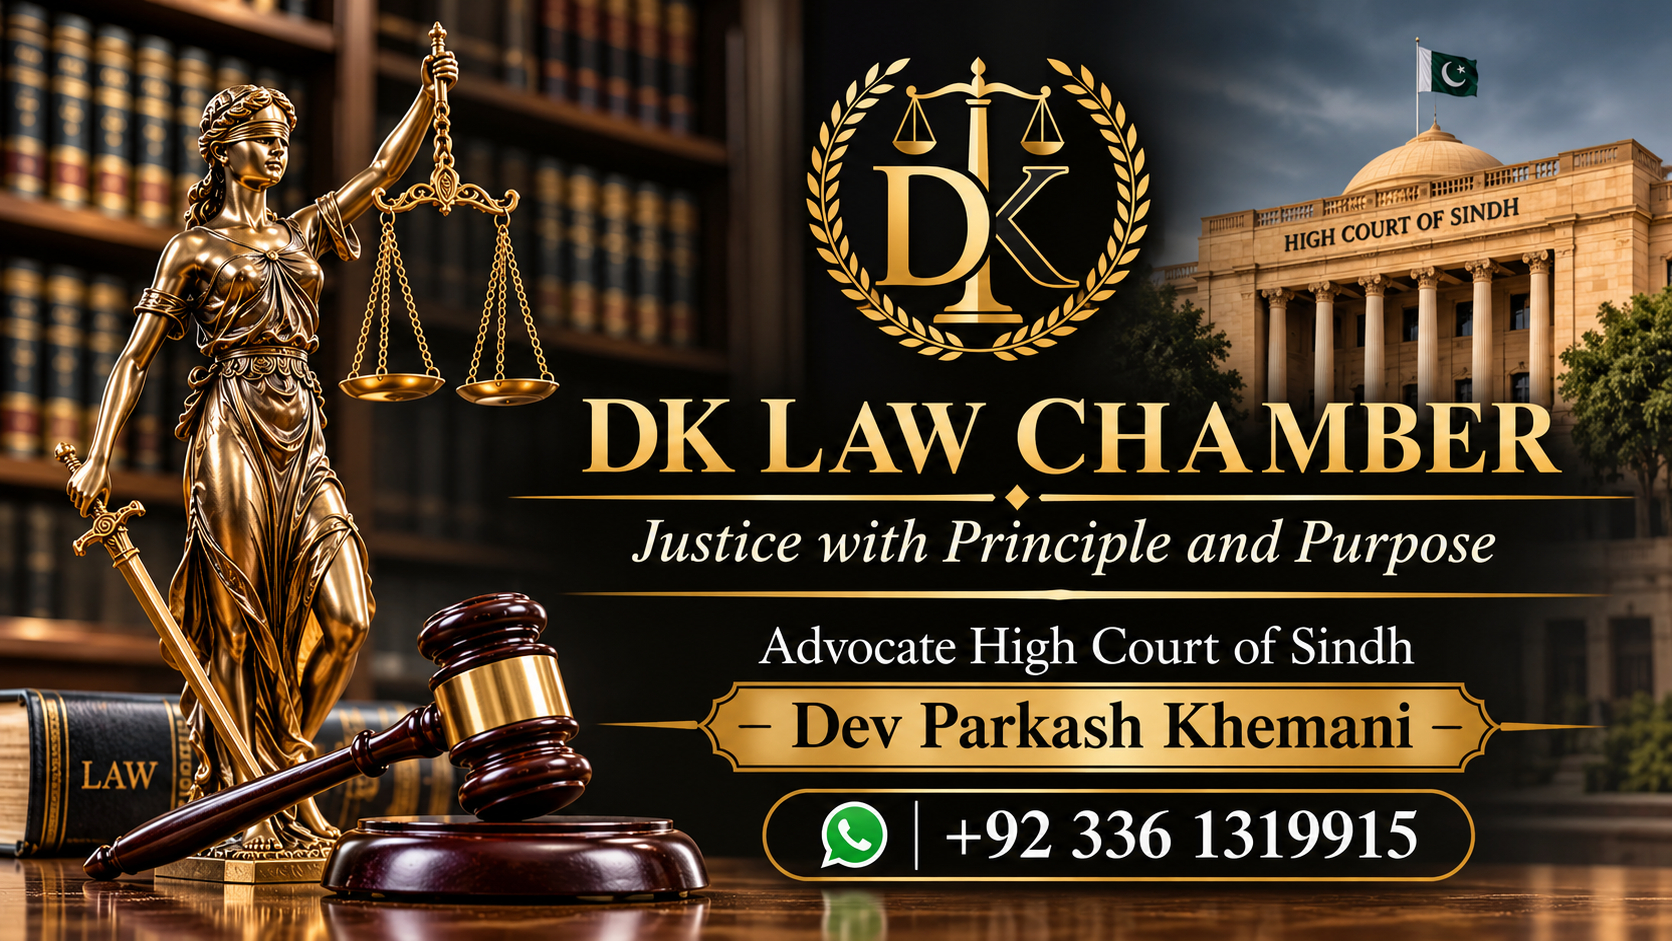
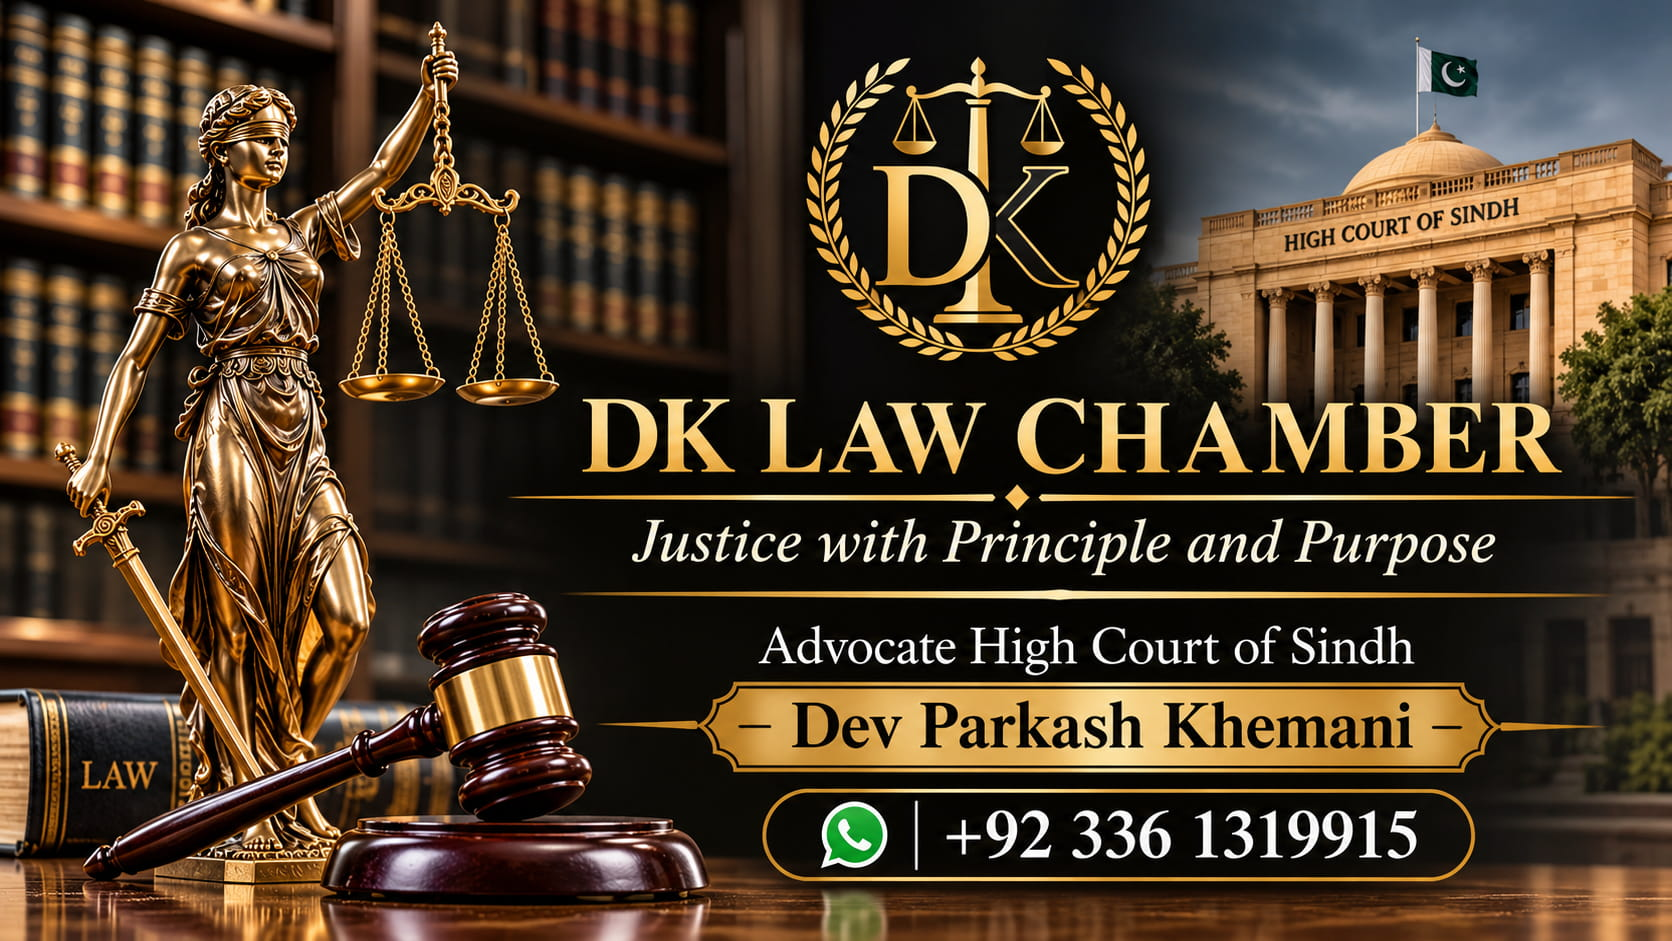
Add complete Open Graph tags and compressed og-image

diff --git a/index.html b/index.html
@@ -13,16 +13,40 @@
       property="og:title"
       content="DK LAW CHAMBER — Justice with Principle and Purpose"
     />
+    <link rel="canonical" href="https://gorav-a36y.github.io/dklawchamber/" />
     <meta
       property="og:description"
       content="Advocate Dev Parkash Khemani, Advocate High Court of Sindh. Free consultation — WhatsApp +92 336 1319915"
     />
-    <meta property="og:image" content="images/og-image.jpg" />
+    <meta
+      property="og:url"
+      content="https://gorav-a36y.github.io/dklawchamber/"
+    />
+    <meta
+      property="og:image"
+      content="https://gorav-a36y.github.io/dklawchamber/images/og-image.jpg"
+    />
+    <meta
+      property="og:image:secure_url"
+      content="https://gorav-a36y.github.io/dklawchamber/images/og-image.jpg"
+    />
+    <meta property="og:image:type" content="image/jpeg" />
     <meta property="og:image:alt" content="DK LAW CHAMBER" />
-    <meta property="og:image:width" content="1672" />
-    <meta property="og:image:height" content="941" />
+    <meta property="og:image:width" content="1200" />
+    <meta property="og:image:height" content="630" />
     <meta name="twitter:card" content="summary_large_image" />
-    <meta name="twitter:image" content="images/og-image.jpg" />
+    <meta
+      name="twitter:title"
+      content="DK LAW CHAMBER — Justice with Principle and Purpose"
+    />
+    <meta
+      name="twitter:description"
+      content="Advocate Dev Parkash Khemani, Advocate High Court of Sindh. Free consultation — WhatsApp +92 336 1319915"
+    />
+    <meta
+      name="twitter:image"
+      content="https://gorav-a36y.github.io/dklawchamber/images/og-image.jpg"
+    />
     <link rel="icon" href="images/favicon.ico" sizes="any" />
     <link
       rel="icon"
@@ -54,10 +78,21 @@
           "addressRegion": "Sindh",
           "addressCountry": "PK"
         },
-        "geo": { "@type": "GeoCoordinates", "latitude": 25.396, "longitude": 68.366 },
+        "geo": {
+          "@type": "GeoCoordinates",
+          "latitude": 25.396,
+          "longitude": 68.366
+        },
         "openingHoursSpecification": {
           "@type": "OpeningHoursSpecification",
-          "dayOfWeek": ["Monday","Tuesday","Wednesday","Thursday","Friday","Saturday"],
+          "dayOfWeek": [
+            "Monday",
+            "Tuesday",
+            "Wednesday",
+            "Thursday",
+            "Friday",
+            "Saturday"
+          ],
           "opens": "09:00",
           "closes": "19:00"
         },
@@ -67,7 +102,17 @@
           "jobTitle": "Advocate High Court"
         },
         "areaServed": "Hyderabad, Sindh, Pakistan",
-        "knowsAbout": ["Civil Law","Criminal Law","Narcotics Law","Corporate Law","Banking Law","Rent Law","Petitions","Income Tax","Sindh Revenue Board"]
+        "knowsAbout": [
+          "Civil Law",
+          "Criminal Law",
+          "Narcotics Law",
+          "Corporate Law",
+          "Banking Law",
+          "Rent Law",
+          "Petitions",
+          "Income Tax",
+          "Sindh Revenue Board"
+        ]
       }
     </script>
     <link rel="preconnect" href="https://fonts.googleapis.com" />
@@ -1692,7 +1737,7 @@
         }
       }
     </style>
-</head>
+  </head>
   <body>
     <div class="topbar">
       <div class="container">
@@ -1820,16 +1865,22 @@
             civil, criminal, narcotics, corporate, banking, rent, petition and
             income tax (FBR) &amp; SRB matters.
           </p>
-          <div class="hero-chips" style="margin-top: 0.2rem; margin-bottom: 1.3rem">
+          <div
+            class="hero-chips"
+            style="margin-top: 0.2rem; margin-bottom: 1.3rem"
+          >
             <span class="chip"><i data-lucide="file-text"></i>Petition</span>
-            <span class="chip"><i data-lucide="badge-dollar-sign"></i>Income Tax (FBR) &amp; SRB</span>
+            <span class="chip"
+              ><i data-lucide="badge-dollar-sign"></i>Income Tax (FBR) &amp;
+              SRB</span
+            >
           </div>
           <div class="card-line">
             <i data-lucide="graduation-cap"></i>L.L.B, University of Sindh,
             Jamshoro
           </div>
           <div class="card-line">
-            <i data-lucide="briefcase"></i>Advocate High Court since 2023
+            <i data-lucide="briefcase"></i>Advocate High Court
           </div>
           <div class="card-line">
             <i data-lucide="map-pin"></i>Hyder Chowk, Hyderabad, Sindh

diff --git a/about.html b/about.html
@@ -8,21 +8,42 @@
       name="description"
       content="Meet Advocate Dev Parkash Khemani, Advocate High Court of Sindh — his qualifications, experience, vision, mission and approach at DK LAW CHAMBER, Hyderabad."
     />
+    <link
+      rel="canonical"
+      href="https://gorav-a36y.github.io/dklawchamber/about.html"
+    />
     <meta property="og:type" content="website" />
     <meta
-      property="og:title"
-      content="DK LAW CHAMBER — Justice with Principle and Purpose"
+      property="og:url"
+      content="https://gorav-a36y.github.io/dklawchamber/about.html"
     />
+    <meta property="og:title" content="About — DK LAW CHAMBER" />
     <meta
       property="og:description"
-      content="Advocate Dev Parkash Khemani, Advocate High Court of Sindh. Free consultation — WhatsApp +92 336 1319915"
+      content="Learn about Advocate Dev Parkash Khemani, Advocate High Court of Sindh, and DK LAW CHAMBER in Hyderabad, Sindh."
     />
-    <meta property="og:image" content="images/og-image.jpg" />
+    <meta
+      property="og:image"
+      content="https://gorav-a36y.github.io/dklawchamber/images/og-image.jpg"
+    />
+    <meta
+      property="og:image:secure_url"
+      content="https://gorav-a36y.github.io/dklawchamber/images/og-image.jpg"
+    />
+    <meta property="og:image:type" content="image/jpeg" />
     <meta property="og:image:alt" content="DK LAW CHAMBER" />
-    <meta property="og:image:width" content="1672" />
-    <meta property="og:image:height" content="941" />
+    <meta property="og:image:width" content="1200" />
+    <meta property="og:image:height" content="630" />
     <meta name="twitter:card" content="summary_large_image" />
-    <meta name="twitter:image" content="images/og-image.jpg" />
+    <meta name="twitter:title" content="About — DK LAW CHAMBER" />
+    <meta
+      name="twitter:description"
+      content="Learn about Advocate Dev Parkash Khemani, Advocate High Court of Sindh, and DK LAW CHAMBER in Hyderabad, Sindh."
+    />
+    <meta
+      name="twitter:image"
+      content="https://gorav-a36y.github.io/dklawchamber/images/og-image.jpg"
+    />
     <link rel="icon" href="images/favicon.ico" sizes="any" />
     <link
       rel="icon"

diff --git a/contact.html b/contact.html
@@ -8,21 +8,42 @@
       name="description"
       content="Contact DK LAW CHAMBER, Hyder Chowk, Hyderabad. Call +92 336 1319915 or message on WhatsApp for a free legal consultation with Advocate Dev Parkash Khemani."
     />
+    <link
+      rel="canonical"
+      href="https://gorav-a36y.github.io/dklawchamber/contact.html"
+    />
     <meta property="og:type" content="website" />
     <meta
-      property="og:title"
-      content="DK LAW CHAMBER — Justice with Principle and Purpose"
+      property="og:url"
+      content="https://gorav-a36y.github.io/dklawchamber/contact.html"
     />
+    <meta property="og:title" content="Contact — DK LAW CHAMBER" />
     <meta
       property="og:description"
-      content="Advocate Dev Parkash Khemani, Advocate High Court of Sindh. Free consultation — WhatsApp +92 336 1319915"
+      content="Book a free legal consultation with DK LAW CHAMBER — WhatsApp +92 336 1319915."
     />
-    <meta property="og:image" content="images/og-image.jpg" />
+    <meta
+      property="og:image"
+      content="https://gorav-a36y.github.io/dklawchamber/images/og-image.jpg"
+    />
+    <meta
+      property="og:image:secure_url"
+      content="https://gorav-a36y.github.io/dklawchamber/images/og-image.jpg"
+    />
+    <meta property="og:image:type" content="image/jpeg" />
     <meta property="og:image:alt" content="DK LAW CHAMBER" />
-    <meta property="og:image:width" content="1672" />
-    <meta property="og:image:height" content="941" />
+    <meta property="og:image:width" content="1200" />
+    <meta property="og:image:height" content="630" />
     <meta name="twitter:card" content="summary_large_image" />
-    <meta name="twitter:image" content="images/og-image.jpg" />
+    <meta name="twitter:title" content="Contact — DK LAW CHAMBER" />
+    <meta
+      name="twitter:description"
+      content="Book a free legal consultation with DK LAW CHAMBER — WhatsApp +92 336 1319915."
+    />
+    <meta
+      name="twitter:image"
+      content="https://gorav-a36y.github.io/dklawchamber/images/og-image.jpg"
+    />
     <link rel="icon" href="images/favicon.ico" sizes="any" />
     <link
       rel="icon"
